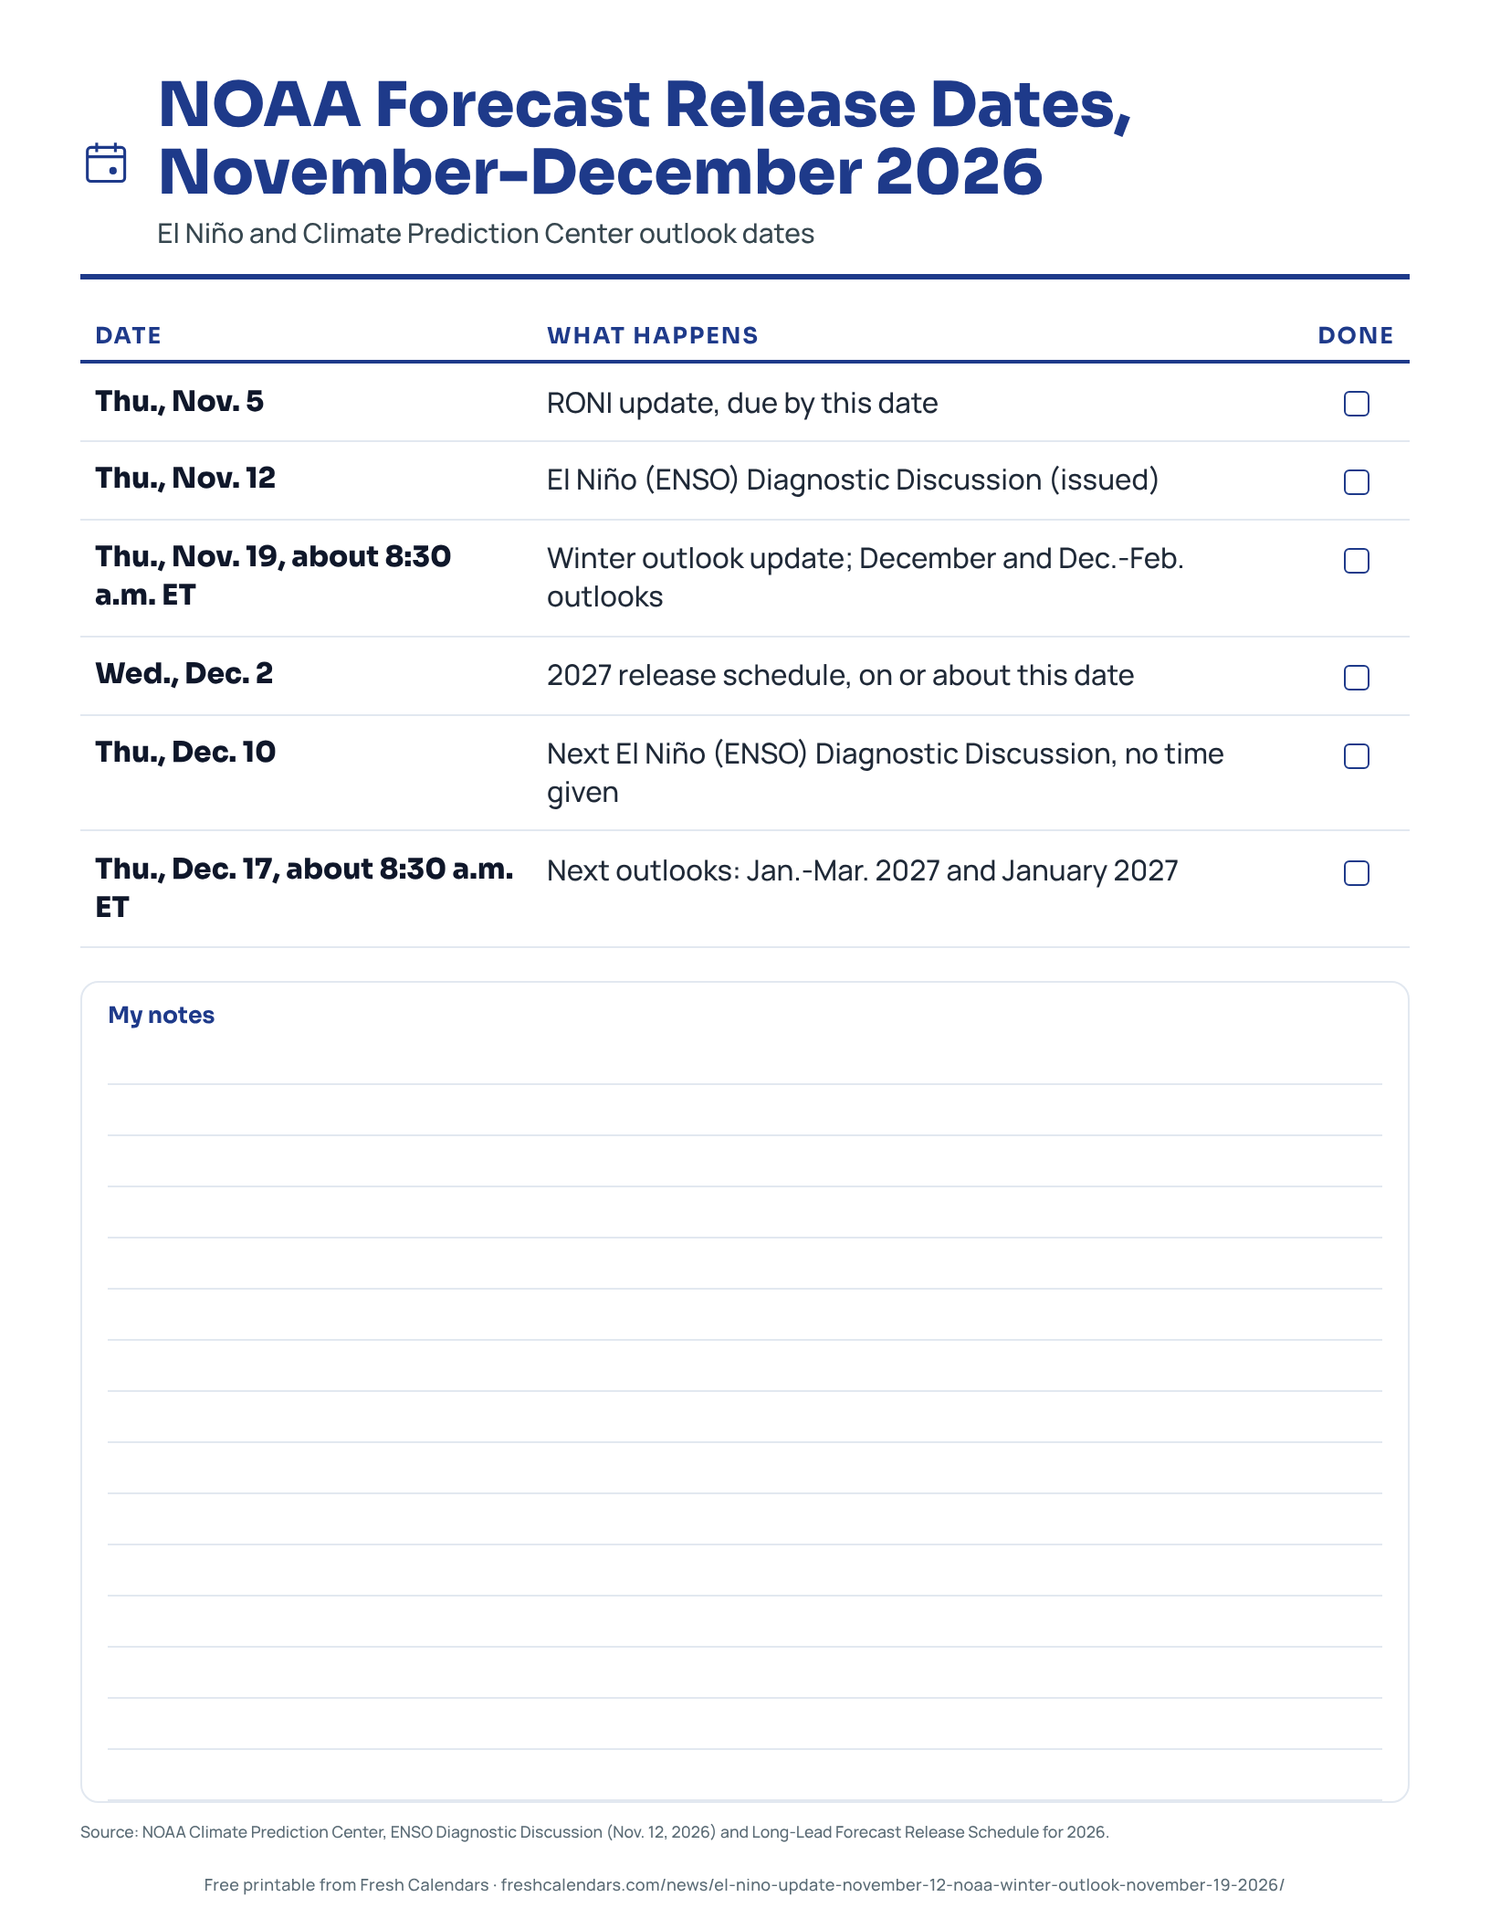
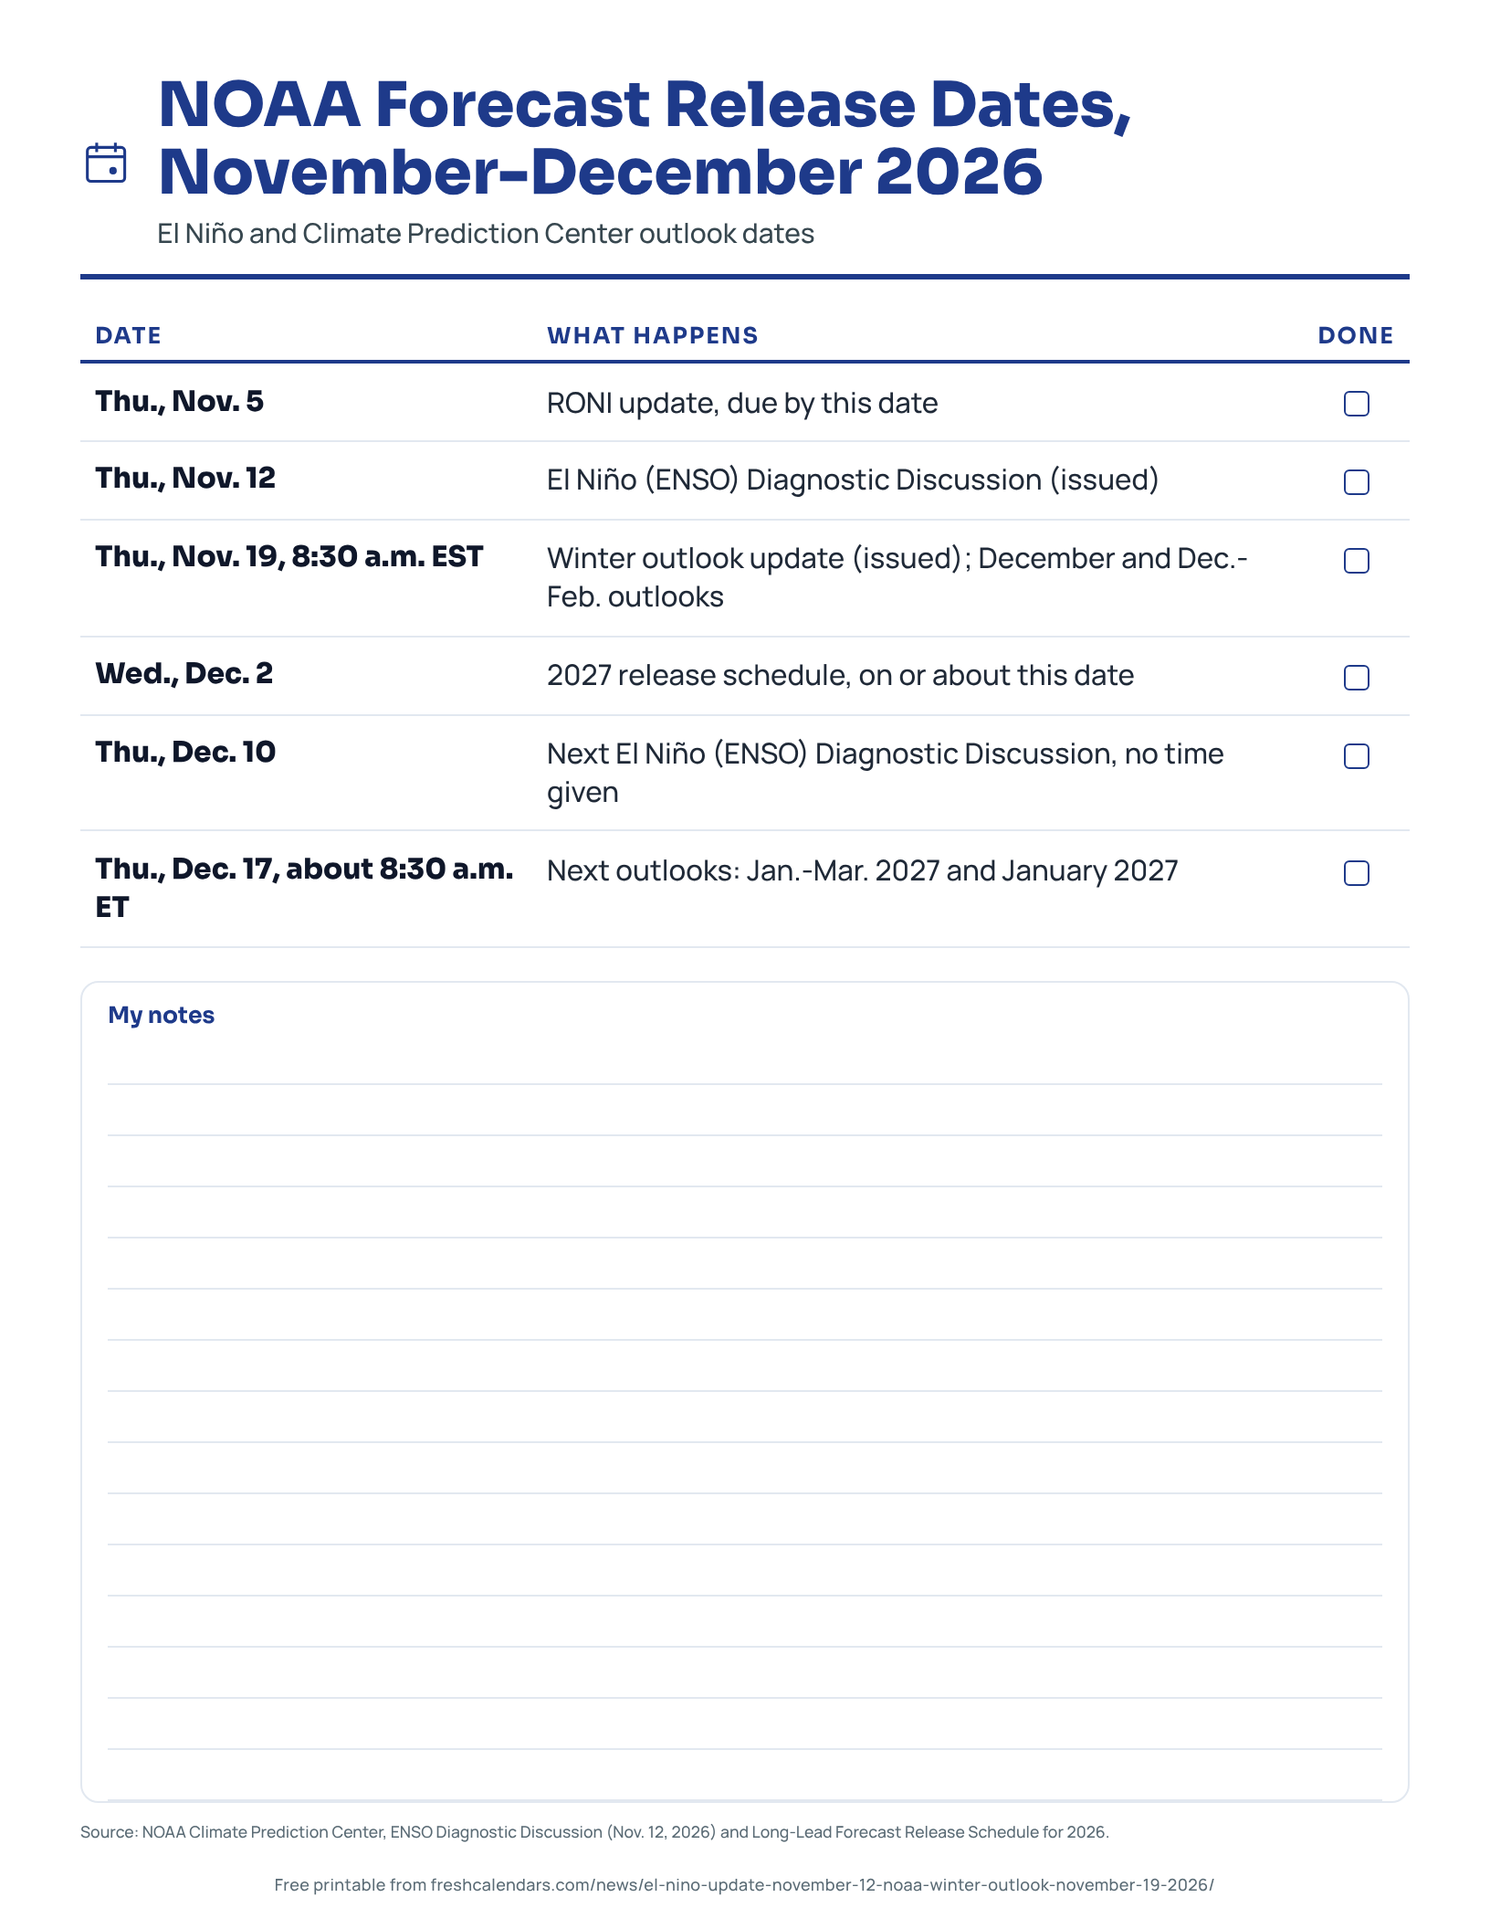
desk(u): El Niño story: Nov. 19 CPC winter outlook (DJF region table, Dec. 17 next)
Claude-Session: https://claude.ai/code/session_01YBn8zYqgTtCHokPWU4mQMA

diff --git a/apps/news/src/content/articles/2026/10/el-nino-update-november-12-noaa-winter-outlook-november-19-2026.md b/apps/news/src/content/articles/2026/10/el-nino-update-november-12-noaa-winter-outlook-november-19-2026.md
@@ -1,16 +1,16 @@
 ---
 title: "El Niño Update Nov. 12, 2026: NOAA Winter Outlook Update Nov. 19"
-description: "The Climate Prediction Center's Nov. 12, 2026 El Niño update puts strong-to-very strong odds above 79%. Its winter outlook update is due Nov. 19."
+description: "The Climate Prediction Center's Nov. 19, 2026 winter outlook favors a warm north and wet South under a strong El Niño, with a region table and next dates."
 type: news
 publishedAt: "2026-10-30T10:30:00-04:00"
-updatedAt: "2026-11-12T09:19:00-05:00"
+updatedAt: "2026-11-19T09:20:00-05:00"
 authors: [christina-gerland]
 category: planning
 keywords: ["super el niño winter forecast", "noaa winter outlook update november 19", "el niño update november 2026", "cpc outlook release schedule", "winter forecast canada el niño"]
 hero:
   src: ../../../../assets/news/el-nino-update-november-12-noaa-winter-outlook-november-19-2026/el-nino-update-november-12-noaa-winter-outlook-november-19-2026.webp
   alt: "El Niño winter outlook: NASA satellite photo of severe storms approaching the U.S. West Coast from the Pacific"
-  caption: "File photo: storms approach the U.S. West Coast on Jan. 1, 2024, seen by NASA's MODIS satellite instrument. NOAA updates its winter outlook Nov. 19, 2026."
+  caption: "File photo: storms approach the U.S. West Coast on Jan. 1, 2024, seen by NASA's MODIS satellite instrument. NOAA updated its winter outlook Nov. 19, 2026."
   credit: "Photo: MODIS Land Rapid Response Team, NASA GSFC / Wikimedia Commons, cropped, edited"
   license:
     name: "Public domain"
@@ -18,15 +18,15 @@ hero:
     source: "https://commons.wikimedia.org/wiki/File:Severe_Storms_Approaching_the_West_Coast_of_the_United_States_(MODIS_2024-01-01).jpg"
     author: "MODIS Land Rapid Response Team, NASA GSFC"
 summary:
-  - "The Climate Prediction Center (CPC) issued its El Niño-Southern Oscillation (ENSO) discussion on Thursday, Nov. 12, 2026; its winter outlook update is due Nov. 19 and the next ENSO discussion is scheduled for Dec. 10."
+  - "The Climate Prediction Center (CPC) issued its winter outlook update on Thursday, Nov. 19, 2026, after its El Niño-Southern Oscillation (ENSO) discussion on Nov. 12; the next ENSO discussion is scheduled for Dec. 10 and the next outlooks for Dec. 17."
   - "The CPC's Nov. 12 discussion kept the El Niño Advisory and said a strong-to-very strong El Niño is likely through January-March 2027, with a chance greater than 79%, down from greater than 83% on Oct. 8."
-  - "NOAA's Oct. 15 winter outlook covers December 2026 to February 2027 and favors warmer than average conditions across much of the northern and eastern U.S."
+  - "The Nov. 19 outlook for December 2026 to February 2027 favors above-normal temperatures across much of the northern two-thirds of the Contiguous U.S. and above-normal precipitation in the South and along the East Coast."
   - "\"Super El Niño\" is a media term; NOAA's pages say \"strong-to-very strong\" and \"very strong.\""
 faq:
   - q: "When is the next El Niño update?"
     a: "The CPC's Nov. 12, 2026 ENSO Diagnostic Discussion says the next one is scheduled for Thursday, Dec. 10, 2026. It gives no time."
-  - q: "When is the NOAA winter outlook update?"
-    a: "NOAA's Oct. 15, 2026 release says the next update will be available on Nov. 19, a Thursday. The CPC schedule lists Nov. 19 for the December and December-February outlooks."
+  - q: "When is the next NOAA winter outlook update?"
+    a: "The CPC issued it on Thursday, Nov. 19, 2026. The next set of outlooks is scheduled for Thursday, Dec. 17, 2026, and the CPC schedule lists it for January-March 2027 and January 2027."
   - q: "What time does the CPC release its outlooks?"
     a: "The CPC says outlooks are generally released and available on the web around 8:30 a.m. Eastern Time (ET) on a scheduled release date. The Nov. 12 discussion gives a date for the next ENSO update but no time."
   - q: "Is a \"super El Niño\" an official term?"
@@ -46,6 +46,10 @@ sources:
     url: "https://www.canada.ca/en/environment-climate-change/news/2025/12/environment-and-climate-change-canada-presents-winter-seasonal-outlook-and-expansion-of-the-rapid-extreme-weather-event-attribution-system.html"
     publisher: "Environment and Climate Change Canada"
     date: "2025-12-11"
+  - title: "Prognostic Discussion for Long-Lead Seasonal Outlooks"
+    url: "https://www.cpc.ncep.noaa.gov/products/predictions/90day/fxus05.html"
+    publisher: "NOAA Climate Prediction Center"
+    date: "2026-11-19"
   - title: "CPC - ENSO Diagnostic Discussion"
     url: "https://www.cpc.ncep.noaa.gov/products/analysis_monitoring/enso_advisory/ensodisc.shtml"
     publisher: "NOAA Climate Prediction Center"
@@ -111,7 +115,7 @@ assets:
     rows:
       - ["Thu., Nov. 5", "RONI update, due by this date"]
       - ["Thu., Nov. 12", "El Niño (ENSO) Diagnostic Discussion (issued)"]
-      - ["Thu., Nov. 19, about 8:30 a.m. ET", "Winter outlook update; December and Dec.-Feb. outlooks"]
+      - ["Thu., Nov. 19, 8:30 a.m. EST", "Winter outlook update (issued); December and Dec.-Feb. outlooks"]
       - ["Wed., Dec. 2", "2027 release schedule, on or about this date"]
       - ["Thu., Dec. 10", "Next El Niño (ENSO) Diagnostic Discussion, no time given"]
       - ["Thu., Dec. 17, about 8:30 a.m. ET", "Next outlooks: Jan.-Mar. 2027 and January 2027"]
@@ -120,7 +124,7 @@ assets:
     alt: "Printable list of NOAA forecast release dates from Nov. 5 to Dec. 17, 2026"
 ---
 
-**The National Oceanic and Atmospheric Administration (NOAA) Climate Prediction Center (CPC) issued its El Niño update on Thursday, Nov. 12, 2026, and updates the winter outlook on Thursday, Nov. 19.** The CPC's Nov. 12 El Niño-Southern Oscillation (ENSO) Diagnostic Discussion says "El Niño continues to strengthen, with a strong-to-very strong El Niño likely through January-March 2027 (remaining greater than a 79% chance)." NOAA's Oct. 15 winter outlook release says "The next update will be available on November 19."
+**The National Oceanic and Atmospheric Administration (NOAA) Climate Prediction Center (CPC) issued its El Niño update on Thursday, Nov. 12, 2026, and its winter outlook update on Thursday, Nov. 19.** The Nov. 19 CPC discussion says "A strong El Nino continues and is forecast to persist through January-February-March 2027." The CPC's Nov. 12 El Niño-Southern Oscillation (ENSO) Diagnostic Discussion says "El Niño continues to strengthen, with a strong-to-very strong El Niño likely through January-March 2027 (remaining greater than a 79% chance)."
 
 ## What does NOAA's current El Niño forecast say?
 
@@ -148,26 +152,34 @@ The CPC schedule says forecasts are released on the third Thursday of the month,
 |---|---|---|---|---|
 | Nov. 5 | Thursday | Due by this date | RONI update | The RONI page says it is "updated by the 5th of each month" |
 | Nov. 12 | Thursday | Not given | ENSO Diagnostic Discussion (issued) | El Niño status and outlook |
-| Nov. 19 | Thursday | About 8:30 a.m. | Winter outlook update, long-lead outlooks | December 2026 and December-February (DJF) 2026 to 2027 |
+| Nov. 19 | Thursday | 8:30 a.m. EST (issued) | Winter outlook update, long-lead outlooks | December 2026 and December-February (DJF) 2026 to 2027 |
 | Dec. 2 | Wednesday | On or about this date | 2027 release schedule | The CPC's dates for 2027 |
 | Dec. 10 | Thursday | Not given | Next ENSO Diagnostic Discussion | Next El Niño status and outlook |
 | Dec. 17 | Thursday | About 8:30 a.m. | Next long-lead outlooks | January-March (JFM) 2027 and January 2027 |
 
-The CPC schedule listed Oct. 15 for the November and November-January outlooks. The CPC also posts an updated monthly outlook near the end of each month; its 30-day discussion on Sept. 30, 2026 updated the October outlook, and month-end updates appear on that page. The printable at the end of the story lists the six dates above; mark them on a [November 2026 printable calendar](/november-calendars.html) and a [December 2026 printable calendar](/december-calendars.html).
+The CPC schedule listed Oct. 15 for the November and November-January outlooks. The Nov. 19 discussion says the new set of outlooks "will be superseded by the issuance of the new set next month on Dec 17 2026." The CPC also posts an updated monthly outlook near the end of each month; its 30-day discussion on Sept. 30, 2026 updated the October outlook, and month-end updates appear on that page. The printable at the end of the story lists the six dates above; mark them on a [November 2026 printable calendar](/november-calendars.html) and a [December 2026 printable calendar](/december-calendars.html).
 
-## What does the current winter outlook say by region?
+## What does the Nov. 19 winter outlook say by region?
 
-NOAA's Oct. 15, 2026 release covers December 2026 to February 2027. The headline says El Niño "looms large," and the release says "a very strong El Nino will likely bring a southward and eastward shift."
+The CPC's "Prognostic Discussion for Long-Lead Seasonal Outlooks," issued at 830 AM EST on Nov. 19, 2026 (forecaster Brad Pugh), says "The strong El Nino is likely to be the major influence on temperatures and precipitation this winter through next spring." It covers December-January-February (DJF) 2026-27.
 
-| NOAA outlook, December 2026 to February 2027 | Where |
+| CPC outlook, DJF 2026-27 | Where |
 |---|---|
-| Warmer than average favored | Northern California, the Pacific Northwest, the Midwest, the Mississippi Valley, much of the East, Alaska, Puerto Rico and the U.S. Virgin Islands |
-| Near-normal temperatures most likely | Parts of the Southeast, including Florida |
-| Equal chances for temperature | Hawaii and much of the Southwest |
-| Wetter than average most likely | The southern tier from the Southwest to the Southeast, and the East Coast |
-| Drier than average odds | Hawaii, much of Alaska, the northern Mountain West, parts of the Great Lakes and the Pacific Islands |
+| Above-normal temperatures favored | Central to eastern Alaska and much of the northern two-thirds of the Contiguous U.S. |
+| Above-normal temperature probabilities exceed 50% | Northeast, Great Lakes, Upper Mississippi Valley, Pacific Northwest and southeastern Alaska |
+| Probabilities above 60% | Northwestern Oregon and Washington northward to southeastern Alaska |
+| Near-normal temperatures favored | Parts of the Southeast |
+| Equal chances for temperature | Southwest |
+| Above-normal precipitation favored | Southwestern Oregon, California, the Southwest, Central to Southern Great Plains, Southeast, Mid-Atlantic and much of the Northeast |
+| Above-normal precipitation above 70% | Florida, southern Georgia and the coastal Carolinas |
+| Above-normal precipitation above 60% | Southern California and southwestern Arizona |
+| Below-normal precipitation more likely | Parts of the Great Lakes, Northern High Plains, Northern Rockies and Mainland Alaska |
 
-Wetter than average conditions are most likely across the southern tier from the Southwest to the Southeast and along the East Coast, NOAA says. These are outlooks of odds across large regions, not local forecasts, and the Nov. 19 update may change them. Our table does not include a local snowfall forecast because the sources we used do not give one.
+The CPC says above-normal precipitation probabilities "were increased across California, the Desert Southwest, and along the East Coast compared to the previous forecast release on October 15." The main uncertainty it names is high-latitude blocking, a negative North Atlantic Oscillation (NAO), which could bring below-normal temperatures to the Southeast.
+
+The ocean readings behind it: the weekly Niño 3.4 sea surface temperature departure was "+2.2 degrees C" in mid-November, and the Relative Oceanic Niño Index for August-September-October was "+2.0 degrees C, just shy of +2.1 degrees C in 1997." The CPC's tool shows Niño 3.4 anomalies "peaking above +2.5 degrees C" in November-December-January (NDJ) 2026-27, and El Niño likely to persist through March-April-May (MAM) 2027, with a transition to ENSO-neutral conditions more probable by April-May-June (AMJ). By fall 2027 it depicts "a weak to moderate La Nina."
+
+NOAA's Oct. 15, 2026 release, headlined "El Nino looms large over U.S. Winter Outlook," was the previous set. These are outlooks of odds across large regions, not local forecasts. Our table does not include a local snowfall forecast because the sources we used do not give one.
 
 ## What does El Niño mean for winter in Canada and Ontario?
 

diff --git a/docs/desk/w1.md b/docs/desk/w1.md
@@ -1151,7 +1151,7 @@ Holidays, elections, government and civic deadlines, UK and Canada. Byline `chri
   Add: Belfast City Council's Christmas page (https://www.belfastcity.gov.uk/christmas, read Nov. 8): "Saturday 14 November to Tuesday 22 December 2026 Belfast City Hall grounds". Daily opening hours are still not on the council page: keep "not yet announced" for hours and do not use travel-site hours (2025 values). Silent update, facts and `updatedAt` only.
 - [x] **upd-veterans-day-free-meals-discounts-retail-nov-8** (done 2026-11-08, added to "Stores, haircuts and parks": Target 20% off one qualifying storewide purchase Nov. 5-11 for verified Target Circle military members, veterans and families (Target fact sheet, Nov. 5); Walgreens 20% off eligible regular-priced items in stores Nov. 8-11 (USA Today and Military.com agree; not on walgreens.com; The Military Wallet's Nov. 11-14 dates use 2022 weekdays, ignored); Tractor Supply 10% on Nov. 11 for Neighbor's Club Hometown Heroes members (company release, May 21, plus USA Today and Military.com); printable unchanged) By Nov 10. In "Stores, haircuts and parks", add Target's military community 20% off storewide Nov. 5-11 from Target's own page, and Walgreens (in stores Nov. 8-11 with military ID) and Tractor Supply (10% Nov. 11) only if the retailer's page or a second, non-Fox newsroom confirms. Silent update, facts and `updatedAt` only. (Research, Nov. 8, 2026.)
 
-- [ ] **upd-el-nino-update-november-12-noaa-winter-outlook-november-19-2026** (last done 2026-11-12 09:19 ET: Nov. 12 CPC discussion in summary, FAQ, lede, forecast section and printable: El Niño Advisory kept, strong-to-very strong odds "greater than a 79% chance" (Oct. 8: 83%), historic-event odds ~60% for Oct-Dec and Nov-Jan (Oct. 8: 83%, 70%), Niño-3.4 +2.5°C; next discussion Thu. Dec. 10 added to table, printable and key dates; Nov. 19 still listed on the CPC schedule; Nov. 19 stage still open) (research desk, 2026-11-09) From Thu. Nov. 12 (ENSO discussion) and again from Thu. Nov. 19 (winter outlook).
+- [x] **upd-el-nino-update-november-12-noaa-winter-outlook-november-19-2026** (done 2026-11-19, Nov. 19 CPC long-lead discussion (830 AM EST) added: DJF 2026-27 region table (above-normal temperatures across the northern two-thirds, >60% Pacific Northwest to southeastern Alaska, near-normal parts of Southeast; above-normal precipitation South and East Coast, >70% Florida, southern Georgia, coastal Carolinas; drier Great Lakes, Northern High Plains, Northern Rockies, Mainland Alaska), Niño 3.4 +2.2°C, Relative Oceanic Niño Index +2.0°C, next outlooks Dec. 17 in table, FAQ, key dates and printable; no NOAA press release for Nov. 19; earlier 2026-11-12 09:19 ET: Nov. 12 CPC discussion in summary, FAQ, lede, forecast section and printable: El Niño Advisory kept, strong-to-very strong odds "greater than a 79% chance" (Oct. 8: 83%), historic-event odds ~60% for Oct-Dec and Nov-Jan (Oct. 8: 83%, 70%), Niño-3.4 +2.5°C; next discussion Thu. Dec. 10 added to table, printable and key dates; Nov. 19 still listed on the CPC schedule; Nov. 19 stage still open) (research desk, 2026-11-09) From Thu. Nov. 12 (ENSO discussion) and again from Thu. Nov. 19 (winter outlook).
   Query: el nino update november 2026, noaa winter outlook 2026. Category `planning`, byline `christina-gerland`. By Nov 19.
   Add: research desk, Nov. 9, 2026: CPC ENSO page (https://www.cpc.ncep.noaa.gov/products/analysis_monitoring/enso_advisory/ensodisc.shtml): "The next ENSO Diagnostics Discussion is scheduled for 12 November 2026" (no time of day given); the Oct. 8 discussion is "El Niño Advisory", strong-to-very strong El Niño "greater than an 83% chance" through January-March 2027. CPC schedule (https://www.cpc.ncep.noaa.gov/products/predictions/schedule.php): "Forecast #12 (Dec 2026): 19 Nov 2026 for DJF 2026 - DJF 2027", "around 8:30 AM Eastern Time". On Nov. 12 replace the October figures with the new alert status and probabilities; on Nov. 19 add the December-February temperature and precipitation outlook. Facts and `updatedAt` only.
 
